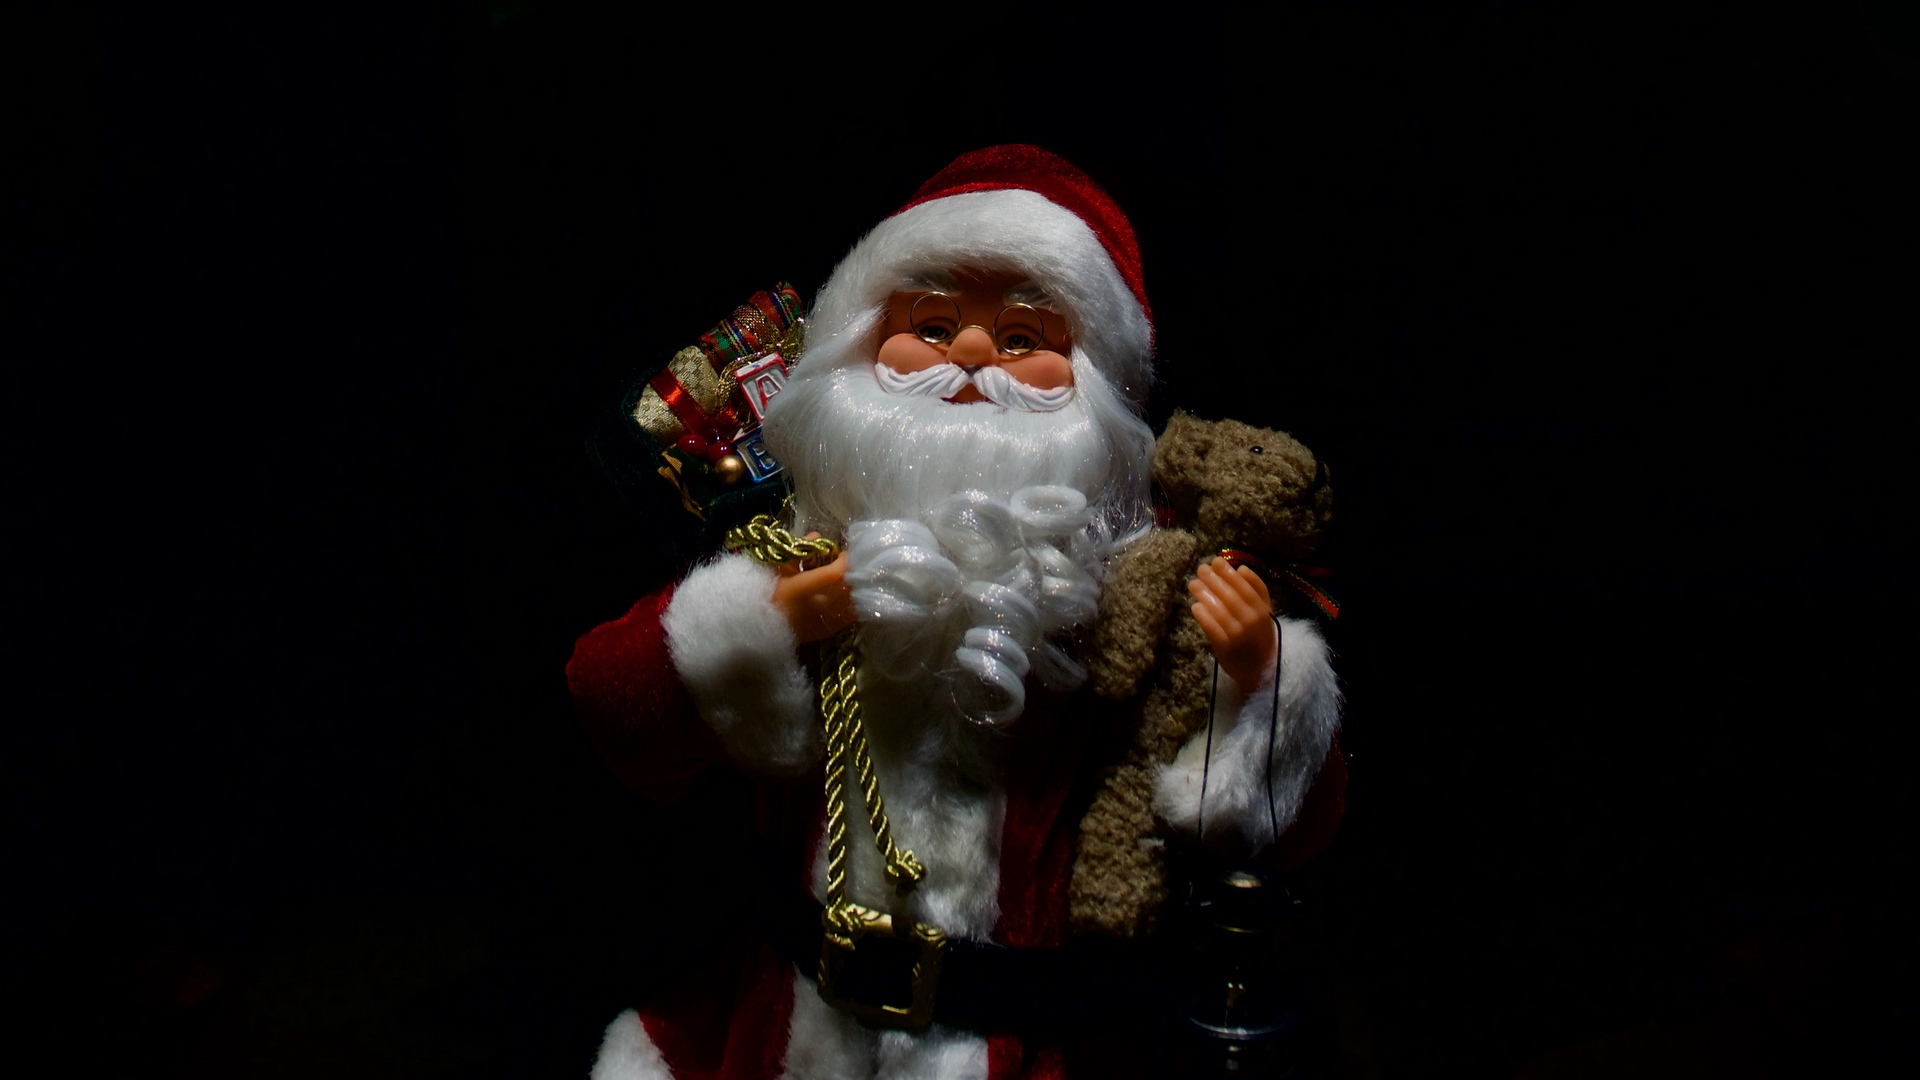
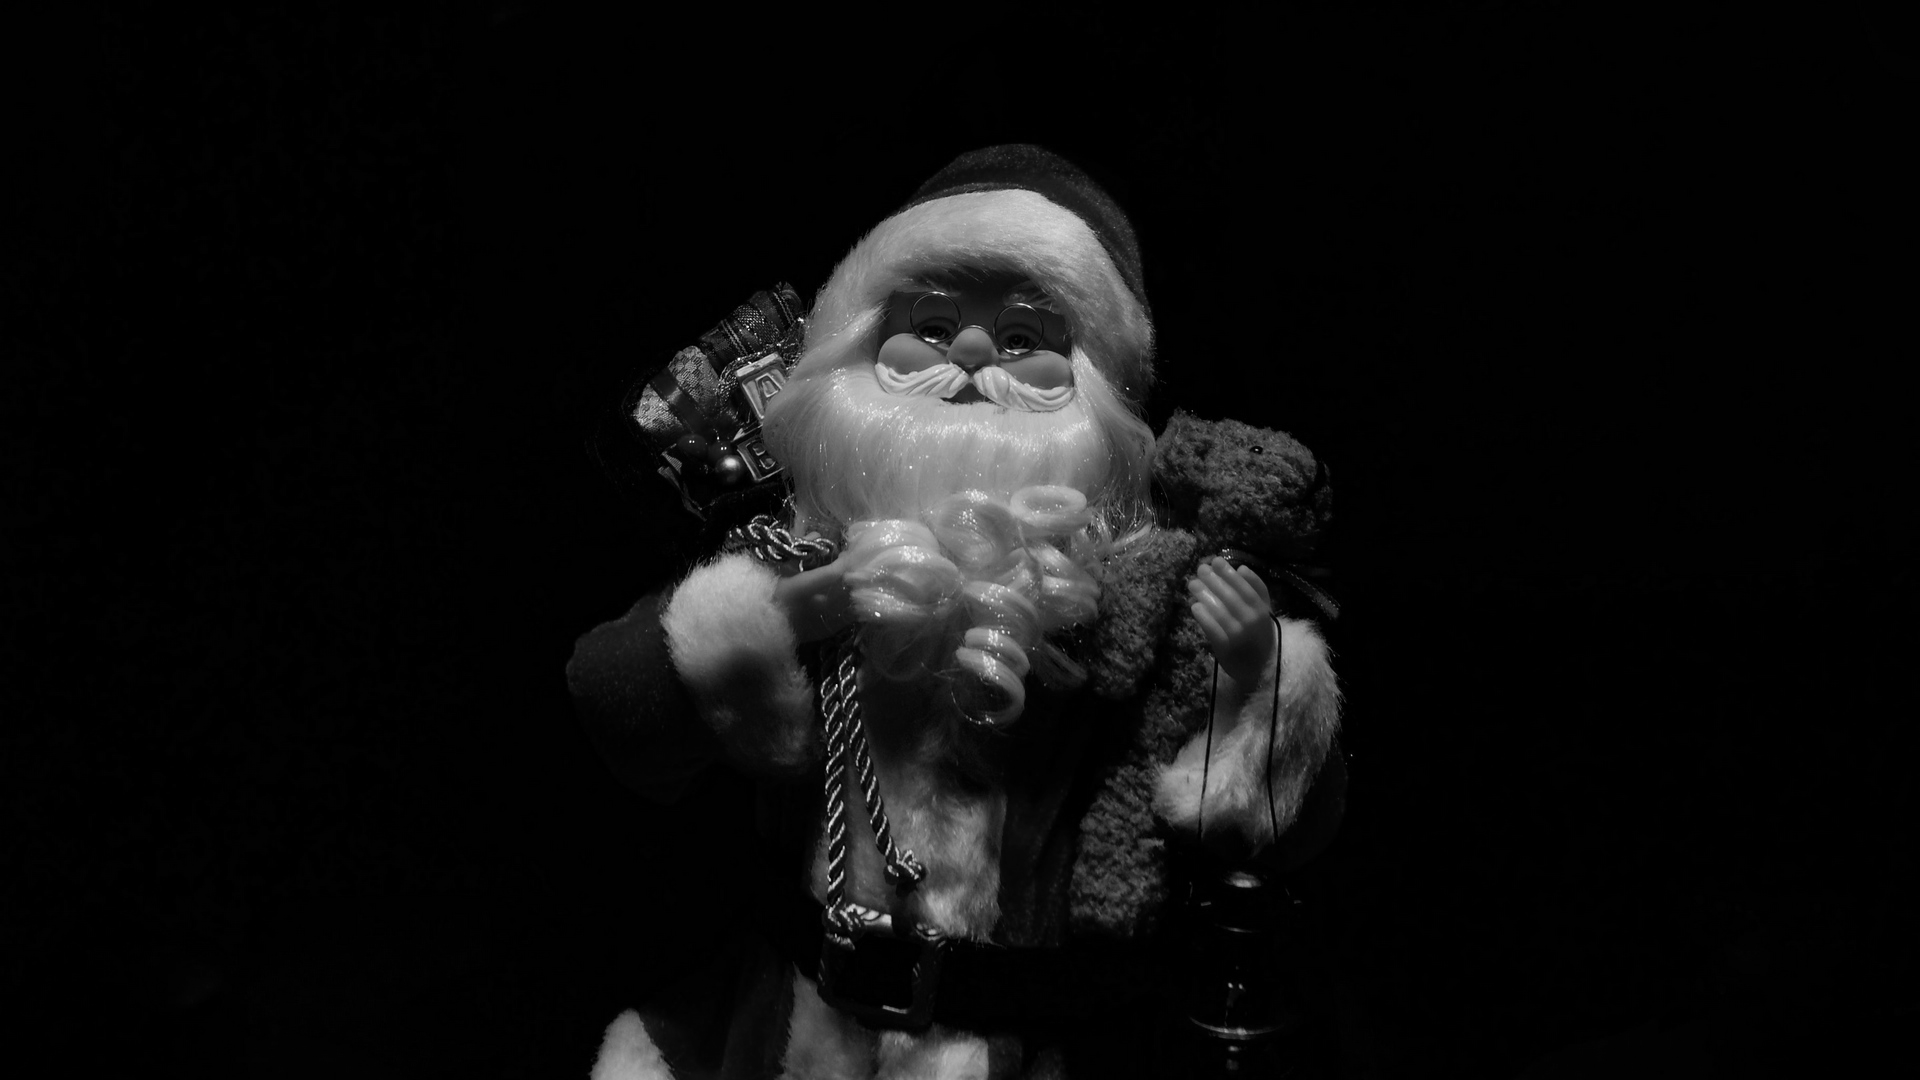
santa is now a G

diff --git a/client/src/components/Genre/Genres.vue b/client/src/components/Genre/Genres.vue
@@ -14,7 +14,7 @@ export default {
             {genreName: "Rock", id: 1, image: "https://i.imgur.com/c4c59v5.jpg"},
             {genreName: "Pop", id: 2, image: "https://i.imgur.com/EynXNTa.jpg"},
             {genreName: "Rap", id: 3, image: "https://i.imgur.com/2m66HLK.jpg"},
-            {genreName: "Christmas", id: 4, image: "https://i.imgur.com/objKAmZ.jpg"}
+            {genreName: "Christmas", id: 4, image: "https://i.imgur.com/DxIqX5F.png"}
             ],
         genreChosen: null,
         isGenreChoosen: null
